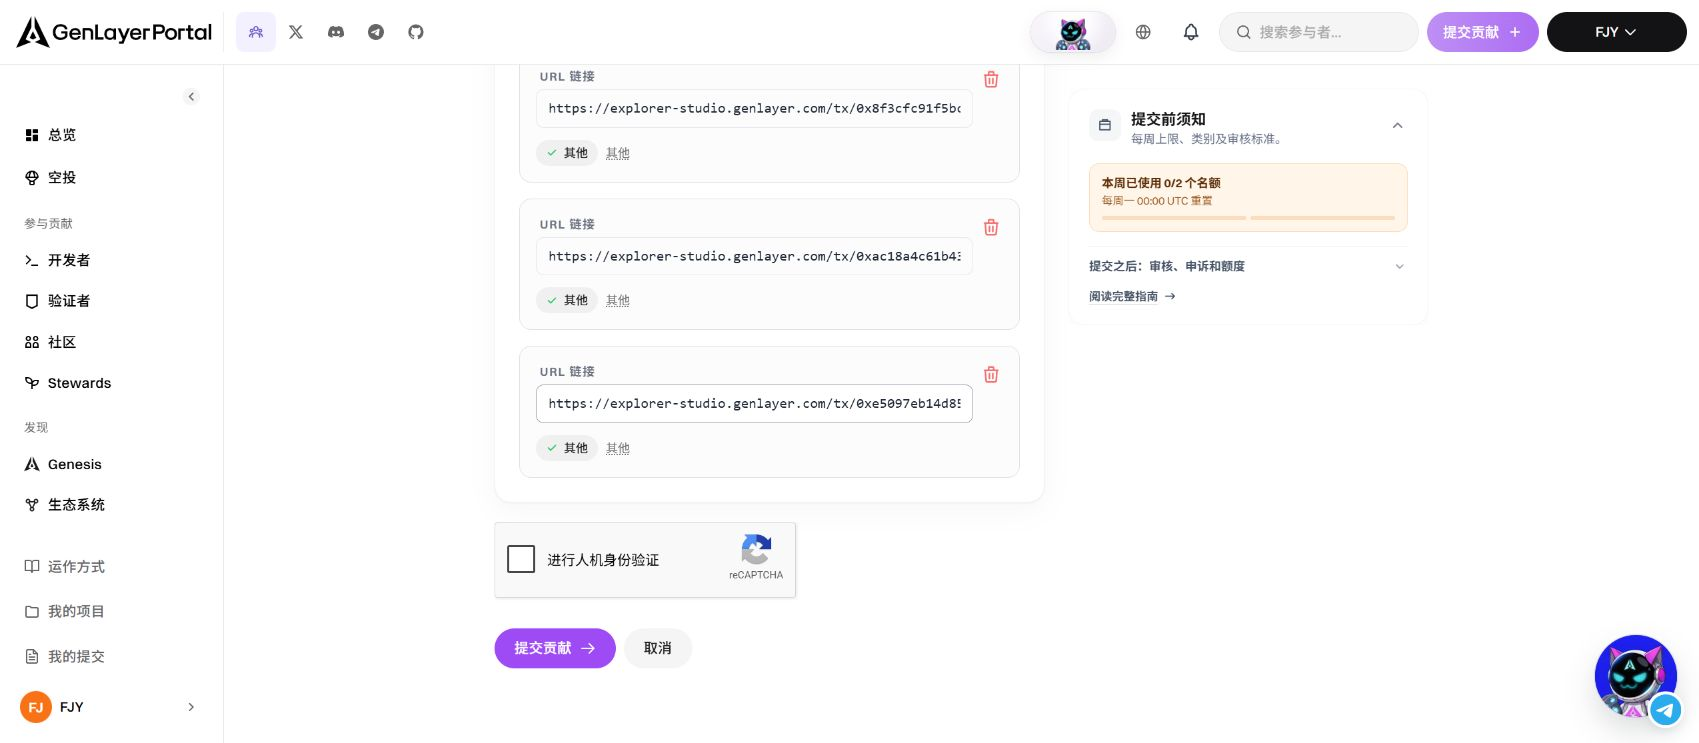
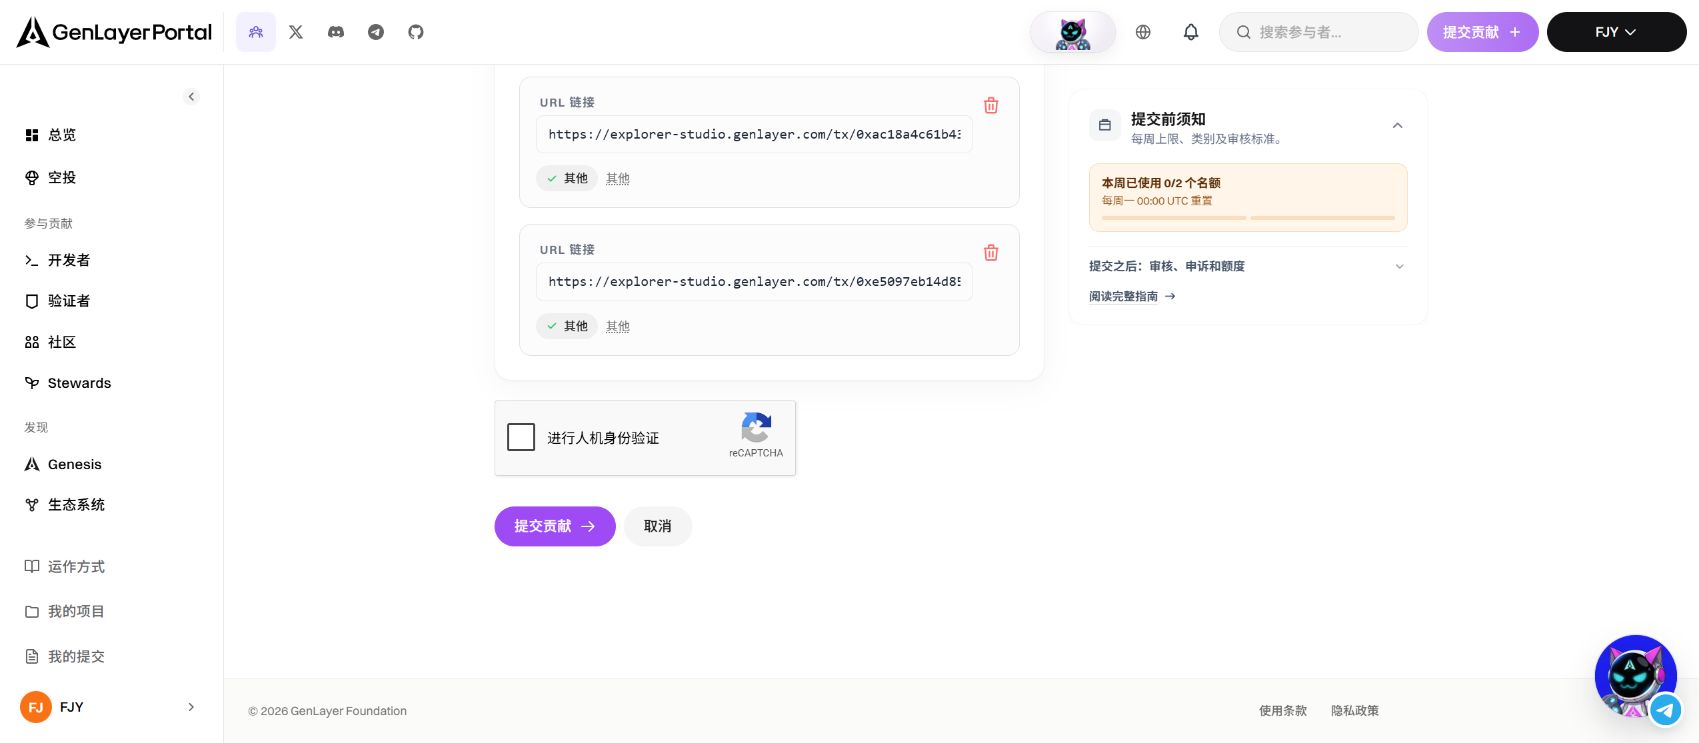
Refresh portal form evidence screenshots
Capture the corrected 996-character description, raw README evidence, contract Explorer, deployment/register/assess transactions, and the reCAPTCHA handoff state.

diff --git a/evidence/README.md b/evidence/README.md
@@ -31,7 +31,14 @@
 ## Portal form
 
 - `portal-form-top.png` — Intelligent Contracts category and weekly quota (0/2 used).
-- `portal-form-filled.png` — filled evidence list, reCAPTCHA, and submit button.
-- The form was prepared with the GitHub repository, contract Explorer, deployment
-  transaction, `register_system` transaction, and `assess` transaction.
+- `portal-form-description.png` — title and the 996/1000 description with the
+  source repository URL.
+- `portal-form-middle.png` — contract Explorer and transaction evidence.
+- `portal-form-filled.png` — final evidence cards, reCAPTCHA, and submit button.
+- Evidence list: raw README URL (`Other`), contract Explorer
+  (`GenLayer Explorer Contract`), deployment tx, `register_system` tx, and
+  `assess` tx.
+- The source repository URL is in the description because the portal client
+  redacts `github.com/...` values in evidence inputs; the raw README URL is
+  included as supporting GitHub evidence.
 - Final reCAPTCHA and `提交贡献` remain with the user.
